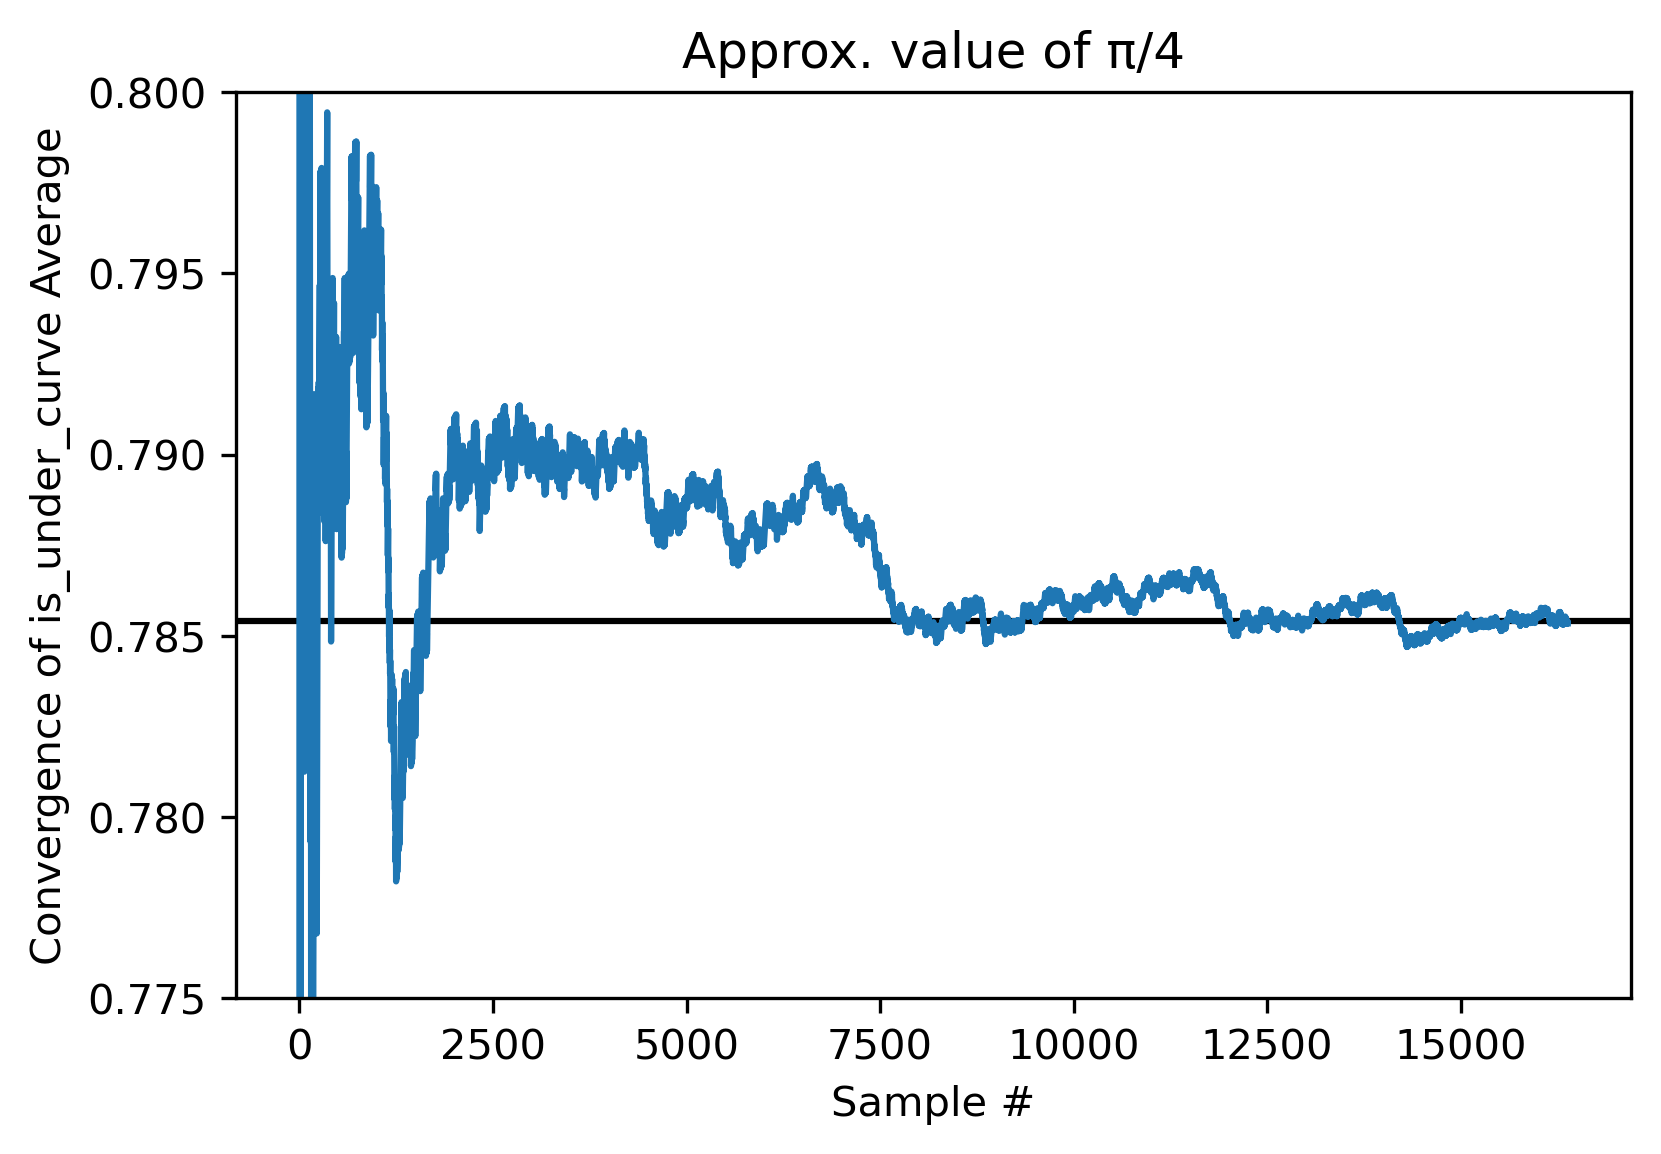
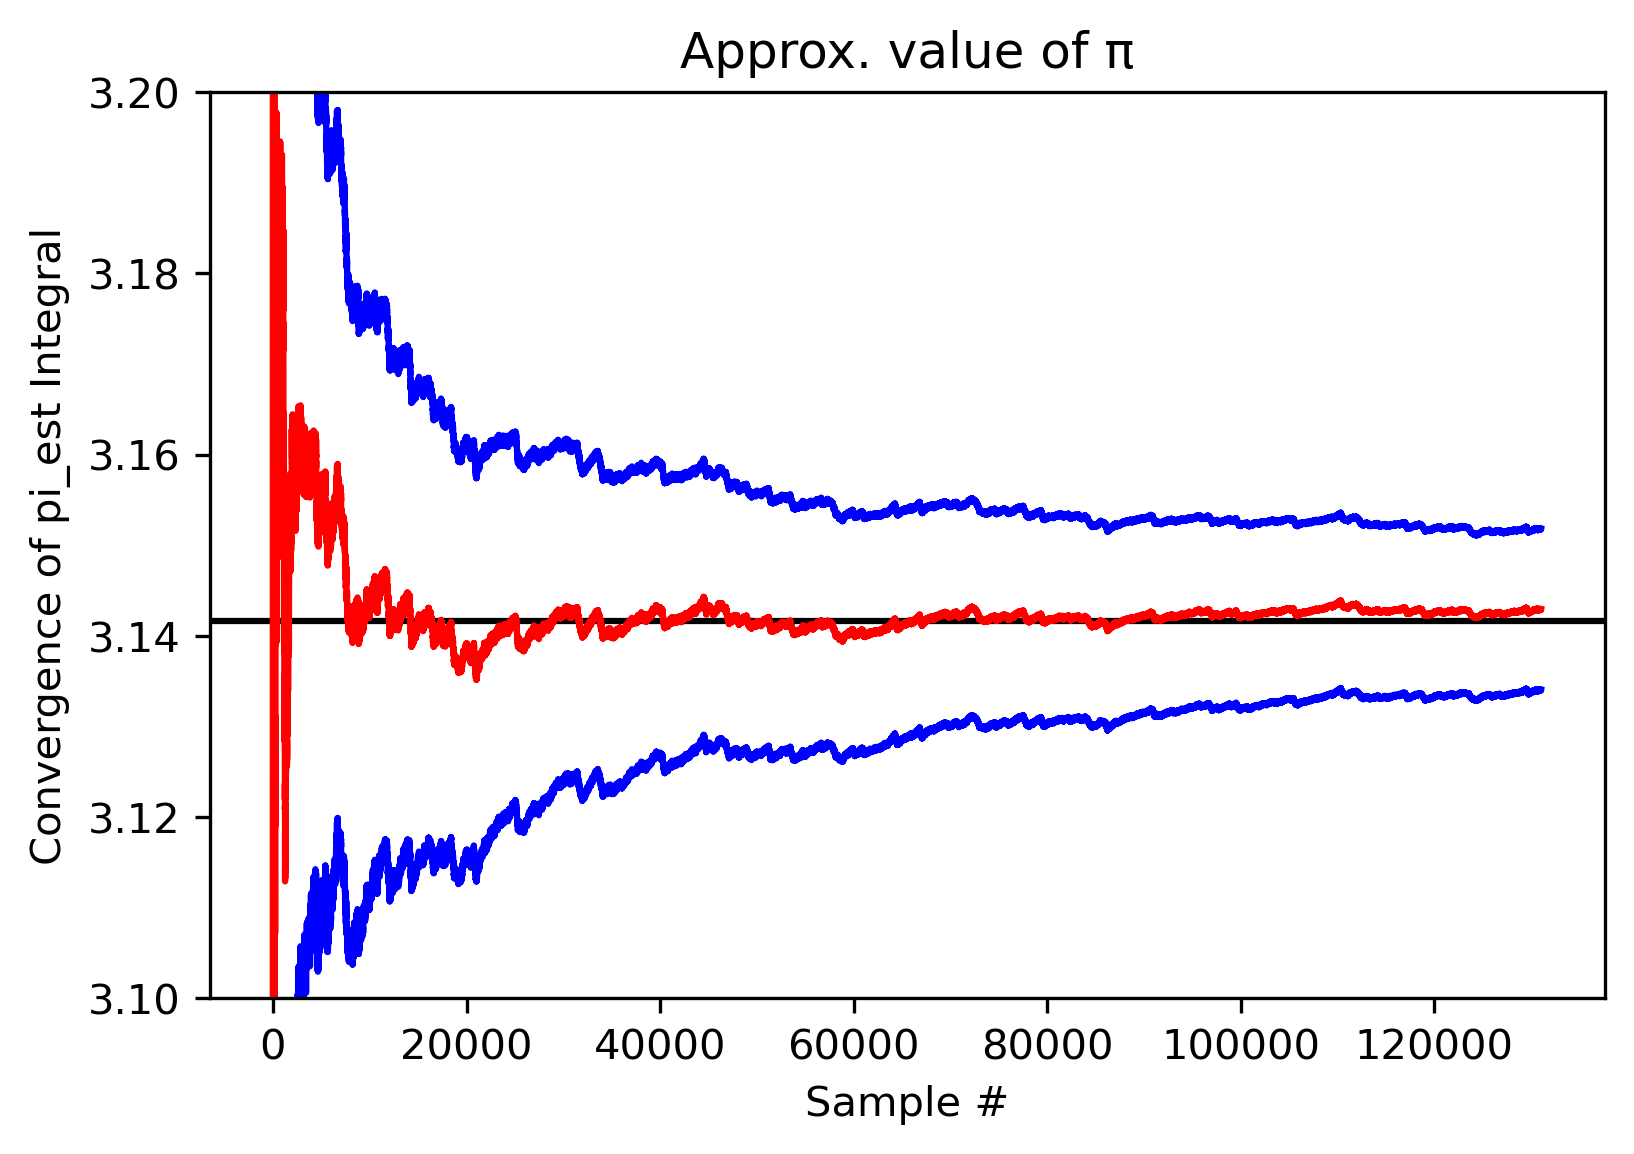
Plotting functions for integration error, update integration example

diff --git a/examples/integration/integration_example_monte_carlo_sim.py b/examples/integration/integration_example_monte_carlo_sim.py
@@ -10,11 +10,11 @@ def integration_example_preprocess(mccase):
     return (x, y)
 
 def integration_example_run(x, y):
-    is_under_curve = x**2 + y**2 < 1
-    return is_under_curve
+    isUnderCurve = x**2 + y**2 < 1
+    return isUnderCurve
 
-def integration_example_postprocess(mccase, is_under_curve):
-    mccase.addOutVal('is_under_curve', is_under_curve)
+def integration_example_postprocess(mccase, isUnderCurve):
+    mccase.addOutVal('pi_est', isUnderCurve)
 
 fcns ={'preprocess' :integration_example_preprocess,   \
        'run'        :integration_example_run,          \
@@ -23,7 +23,7 @@ fcns ={'preprocess' :integration_example_preprocess,   \
 # Integration best practices:
 savecasedata = False           # File I/O will crush performance, so recommended not to save case data
 samplemethod = 'sobol'         # Use 'sobol' over 'sobol_random' for a speedup, since all our dists are uniform
-ndraws = next_power_of_2(1e4)  # The sobol methods need to be a power of 2 for best performance and balance
+ndraws = next_power_of_2(1e5)  # The sobol methods need to be a power of 2 for best performance and balance
 firstcaseisnom = False         # Since we want a power of 2, we should not run a 'nominal' case which would add 1
 
 seed=12362397
@@ -41,21 +41,22 @@ def integration_example_monte_carlo_sim():
     sim.runSim()
     
     total_area = xrange*yrange
-    under_curve_pct = sum(sim.mcoutvars['is_under_curve'].nums)/ndraws # Note that (True,False) vals are automatically valmapped to the nums (1,0)
+    under_curve_pct = sum(sim.mcoutvars['pi_est'].nums)/ndraws # Note that (True,False) vals are automatically valmapped to the nums (1,0)
 
     resultsstr = f'π ≈ {under_curve_pct*total_area}, n = {ndraws}'
     print(resultsstr)
     
-    '''
-    from Monaco.mc_plot import mc_plot, mc_plot_convergence
+    #'''
+    from Monaco.mc_plot import mc_plot, mc_plot_integration_convergence, mc_plot_integration_error
     import matplotlib.pyplot as plt
-    indices_under_curve = [i for i, x in enumerate(sim.mcoutvars['is_under_curve'].vals) if x]
+    indices_under_curve = [i for i, x in enumerate(sim.mcoutvars['pi_est'].vals) if x]
     fig, ax = mc_plot(sim.mcinvars['x'], sim.mcinvars['y'], highlight_cases=indices_under_curve)
     ax.axis('equal')
     plt.title(resultsstr)
     
-    fig, ax = mc_plot_convergence(sim.mcoutvars['is_under_curve'], refline = np.pi/4, title='Approx. value of π/4')
-    ax.set_ylim((3.1/4, 3.2/4))
+    fig, ax = mc_plot_integration_convergence(sim.mcoutvars['pi_est'], refval = np.pi, volume=total_area, conf=0.95, title='Approx. value of π')
+    ax.set_ylim((3.1, 3.2))
+    fig, ax = mc_plot_integration_error(sim.mcoutvars['pi_est'], refval = np.pi, volume=total_area, conf=0.95, title='Approx. error of π')
     #'''
     
     return sim

diff --git a/Monaco/mc_plot.py b/Monaco/mc_plot.py
@@ -10,6 +10,7 @@ from Monaco.MCVar import MCVar, MCInVar, MCOutVar
 from copy import copy
 from Monaco.helper_functions import get_iterable, slice_by_index, length
 from Monaco.gaussian_statistics import conf_ellipsoid_sig2pct
+from Monaco.integration_statistics import integration_error
 from typing import Union
 
 
@@ -384,23 +385,52 @@ def mc_plot_cov_corr(matrix    : np.ndarray,
 
 
 
-def mc_plot_convergence(mcvar   : MCVar, 
-                        refline : Union[int, float] = None,
-                        ax      : Union[None, Axes] = None, 
-                        title   : str               = '',
-                        ):
+def mc_plot_integration_convergence(mcoutvar : MCOutVar,
+                                    volume   : float,
+                                    refval   : Union[int, float]  = None,
+                                    conf     : float              = 0.95,
+                                    ax       : Union[None, Axes]  = None, 
+                                    title    : str                = '',
+                                    ):
     fig, ax = manage_axis(ax, is3d=False)
 
-    cummean = np.cumsum(mcvar.nums)/np.arange(1, mcvar.ncases+1)
-    if not refline is None:
-        plt.axhline(refline, color='k')
-    plt.plot(cummean)
+    if not refval is None:
+        ax.axhline(refval, color='k')
 
+    cummean = volume*np.cumsum(mcoutvar.nums)/np.arange(1, mcoutvar.ncases+1)
+    err = integration_error(isUnderCurve=mcoutvar.nums, volume=volume, runningError=True, conf=conf)
+    ax.plot(cummean,'r')
+    ax.plot(cummean+err, 'b')
+    ax.plot(cummean-err, 'b')
+    
     ax.set_xlabel('Sample #')
-    ax.set_ylabel(f'Convergence of {mcvar.name} Average')
+    ax.set_ylabel(f'Convergence of {mcoutvar.name} Integral')
+    ax.set_title(title)
+
+    return fig, ax
+
+
+
+def mc_plot_integration_error(mcoutvar : MCOutVar,
+                              volume   : float,
+                              refval   : float,
+                              conf     : float              = 0.95,
+                              ax       : Union[None, Axes]  = None, 
+                              title    : str                = '',
+                              ):
+    fig, ax = manage_axis(ax, is3d=False)
+
+    cummean = volume*np.cumsum(mcoutvar.nums)/np.arange(1, mcoutvar.ncases+1)
+    err = integration_error(isUnderCurve=mcoutvar.nums, volume=volume, runningError=True, conf=conf)
+    ax.loglog(err, 'b')
+    ax.plot(np.abs(cummean - refval), 'r')
+    
+    ax.set_xlabel('Sample #')
+    ax.set_ylabel(f'{mcoutvar.name} {round(conf*100, 2)}% Confidence Error')
     plt.title(title)
 
     return fig, ax
+
 
 
 def manage_axis(ax   : Union[None, Axes], 

diff --git a/test/test_mc_plot.py b/test/test_mc_plot.py
@@ -10,7 +10,7 @@ if __name__ == '__main__':
     import matplotlib.pyplot as plt
     from scipy.stats import randint, norm
     from Monaco.MCVar import MCInVar, MCOutVar
-    from Monaco.mc_plot import mc_plot, mc_plot_hist, mc_plot_cdf, mc_plot_cov_corr, mc_plot_convergence
+    from Monaco.mc_plot import mc_plot, mc_plot_hist, mc_plot_cdf, mc_plot_cov_corr, mc_plot_integration_convergence, mc_plot_integration_error
     
     generator = np.random.RandomState(74494861)
     invarseeds = generator.randint(0, 2**31-1, size=10)
@@ -52,6 +52,8 @@ if __name__ == '__main__':
     
     mc_plot_cov_corr(np.array([[2, 0.1111, np.nan],[-0.19, -1, np.nan], [np.nan, np.nan, np.nan]]), ['Test1', 'Test2', 'Test3'])
 
-    mc_plot_convergence(mcinvars['norm'], refline=10)
+    mcinvars['randint2'] = MCInVar(name='randint2', ndraws=1000, dist=randint, distkwargs={'low':0, 'high':2}, samplemethod='random', seed=invarseeds[3])
+    mc_plot_integration_convergence(mcinvars['randint2'], volume=1, refval=0.5, conf=0.95)
+    mc_plot_integration_error(mcinvars['randint2'], volume=1, refval=0.5, conf=0.95)
 #'''
 

diff --git a/test/test_integration_statistics.py b/test/test_integration_statistics.py
@@ -29,9 +29,9 @@ if __name__ == '__main__':
     err = integration_error(x, volume=2, runningError=True, conf=0.95)
     plt.figure()
     plt.hlines(0.5, 0, n, 'k')
-    plt.plot(cummean, 'b')
-    plt.plot(cummean+err, 'r')
-    plt.plot(cummean-err, 'r')
+    plt.plot(cummean, 'r')
+    plt.plot(cummean+err, 'b')
+    plt.plot(cummean-err, 'b')
     plt.ylim((0, 1))
     plt.ylabel(f'{round(conf*100, 2)}% Confidence Integration Bounds')
     
